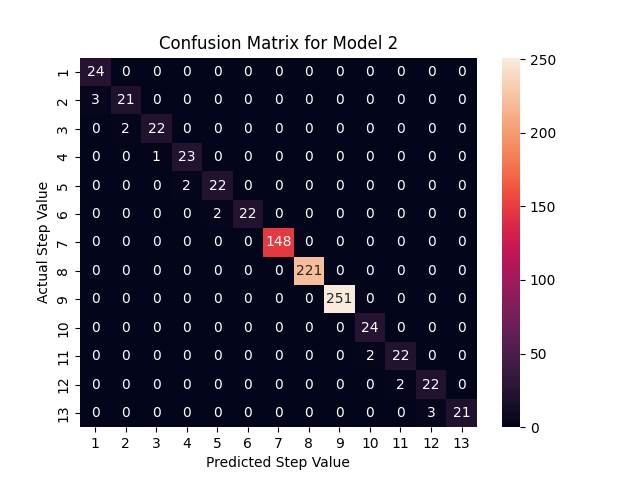
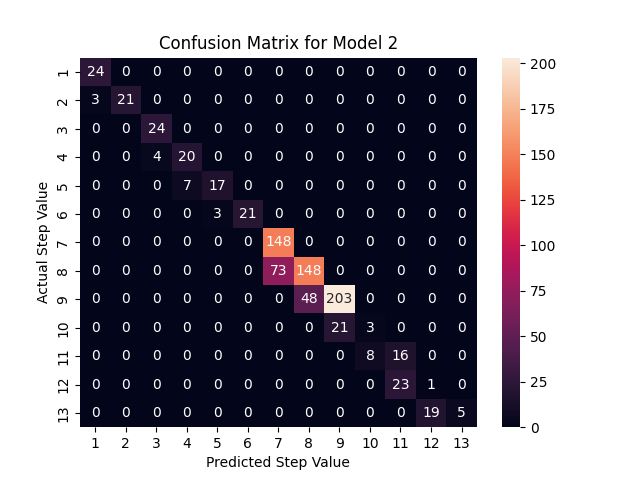
change new

diff --git a/AER850Project1.py b/AER850Project1.py
@@ -5,12 +5,12 @@ import math
 import seaborn as sns
 import joblib
 from sklearn.model_selection import StratifiedShuffleSplit
-from sklearn.preprocessing import OneHotEncoder, StandardScaler
+from sklearn.preprocessing import StandardScaler
 from sklearn.linear_model import LinearRegression
 from sklearn.ensemble import RandomForestRegressor
 from sklearn.tree import DecisionTreeRegressor
 from sklearn.model_selection import cross_val_score, GridSearchCV
-from sklearn.metrics import mean_absolute_error, accuracy_score, precision_score, recall_score, f1_score, confusion_matrix
+from sklearn.metrics import mean_absolute_error, accuracy_score, precision_score, f1_score, confusion_matrix
 
 #-----2.1 Data Processing-----
 data_path = 'data\Project 1 Data.csv'
@@ -34,6 +34,7 @@ attributes = ["X", "Y", "Z","Step"]
 pd.plotting.scatter_matrix(df[attributes], figsize=(12, 8))
 plt.savefig("C:/Users/Owner/Documents/Python/GitHub/Plots/Data Visualization.png")
 plt.show()
+
 #Using the Data Visualization method of scatter plot matrix, no corelation is found between the variables. 
 
 #-----2.3 Corelation Analysis-----
@@ -60,10 +61,6 @@ print("Z correlation with Step is: ", corr1[0,1])
 model1 = LinearRegression()
 model1.fit(train_X, train_y)
 
-some_data = train_X.iloc[:10]
-some_data.columns = train_X.columns
-some_house_values = train_y.iloc[:10]
-
 model1_prediction = model1.predict(train_X)
 from sklearn.metrics import mean_absolute_error
 model1_train_mae = mean_absolute_error(model1_prediction, train_y)
@@ -72,8 +69,8 @@ print("Model 1 training MAE is: ", round(model1_train_mae,2))
 
 
 #Model 2: Random Forest Regressor 
-model2 = RandomForestRegressor(n_estimators=10, random_state=16) #Pre Grid Search
-# model2 = RandomForestRegressor(max_depth = None, max_features = 'sqrt', min_samples_leaf= 1, min_samples_split= 10, n_estimators=30, random_state=16)
+# model2 = RandomForestRegressor(n_estimators=10, random_state=16) #Pre Grid Search
+model2 = RandomForestRegressor(max_depth = None, max_features = 'sqrt', min_samples_leaf= 1, min_samples_split= 10, n_estimators=30, random_state=16)
 model2.fit(train_X, train_y)
 model2_predictions = model2.predict(train_X)
 model2_train_mae = mean_absolute_error(model2_predictions, train_y)
@@ -82,8 +79,8 @@ print("Model 2 training MAE is: ", round(model2_train_mae,2))
 
 
 #Model 3: Decision Tree Regressor
-model3= DecisionTreeRegressor() #Pre Grid Search
-# model3 = DecisionTreeRegressor(criterion='absolute_error', max_depth=10, max_features='log2', max_leaf_nodes=None, min_impurity_decrease=0.0, min_samples_leaf=4, min_samples_split=5)
+# model3= DecisionTreeRegressor() #Pre Grid Search
+model3 = DecisionTreeRegressor(criterion='absolute_error', max_depth=10, max_features='log2', max_leaf_nodes=None, min_impurity_decrease=0.0, min_samples_leaf=4, min_samples_split=5)
 model3.fit(train_X, train_y)
 model3_predictions = model3.predict(train_X)
 model3_train_mae = mean_absolute_error(model3_predictions, train_y)
@@ -106,7 +103,7 @@ scores_model3 = cross_val_score(model3, train_X, train_y, cv=5, scoring='neg_mea
 mae_model3 = -scores_model3.mean()
 print("Model 3 Mean Absolute Error (CV):", round(mae_model3, 2))
 
-#GirdSearchCV for Model 1
+#GridSearchCV for Model 1
 param_grid = {
     'fit_intercept': [True, False]
 }
@@ -129,7 +126,7 @@ best_params = grid_search.best_params_
 print("Best Hyperparameters for Model 2:", best_params)
 best_model2 = grid_search.best_estimator_
 
-#GridSearchCv for Model 3
+#GridSearchCV for Model 3
 param_grid = {
     'criterion': ['friedman_mse', 'poisson', 'absolute_error', 'squared_error'],
     'max_depth': [None, 10, 20, 30],
